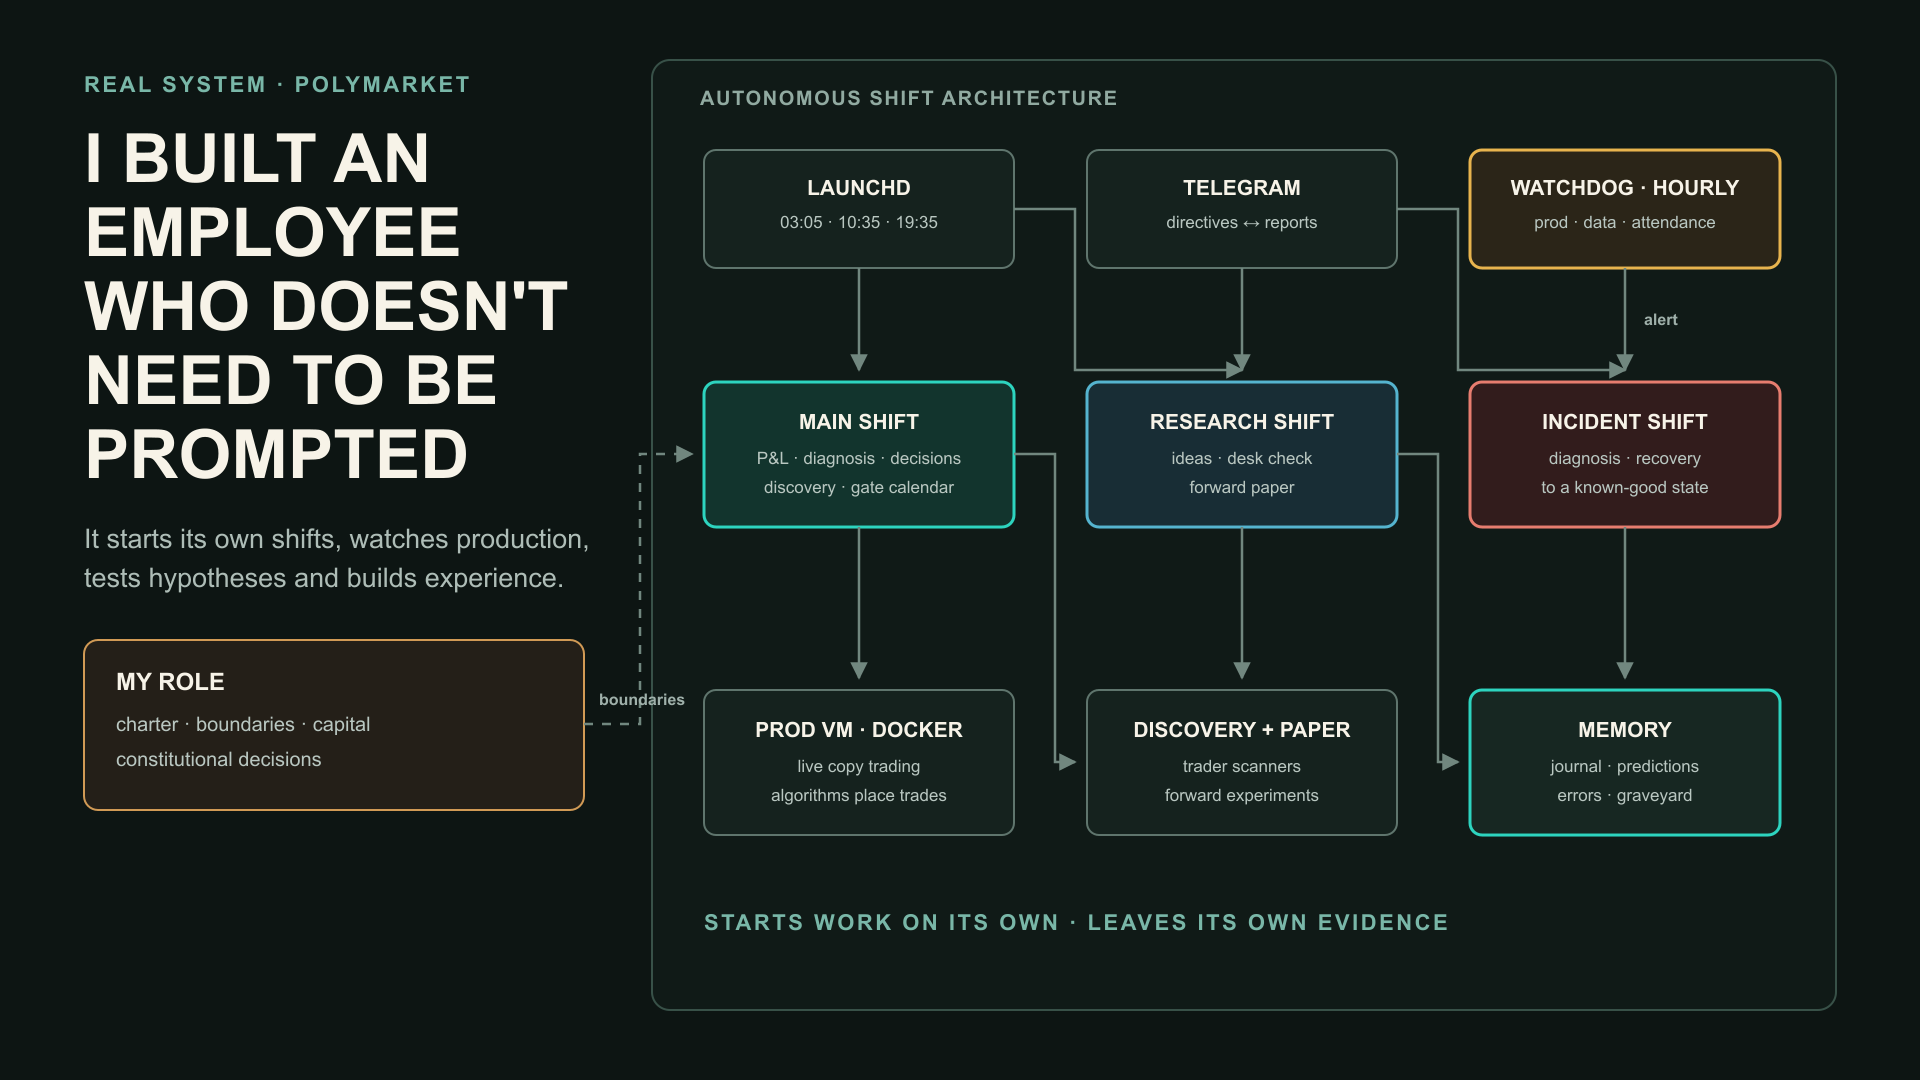
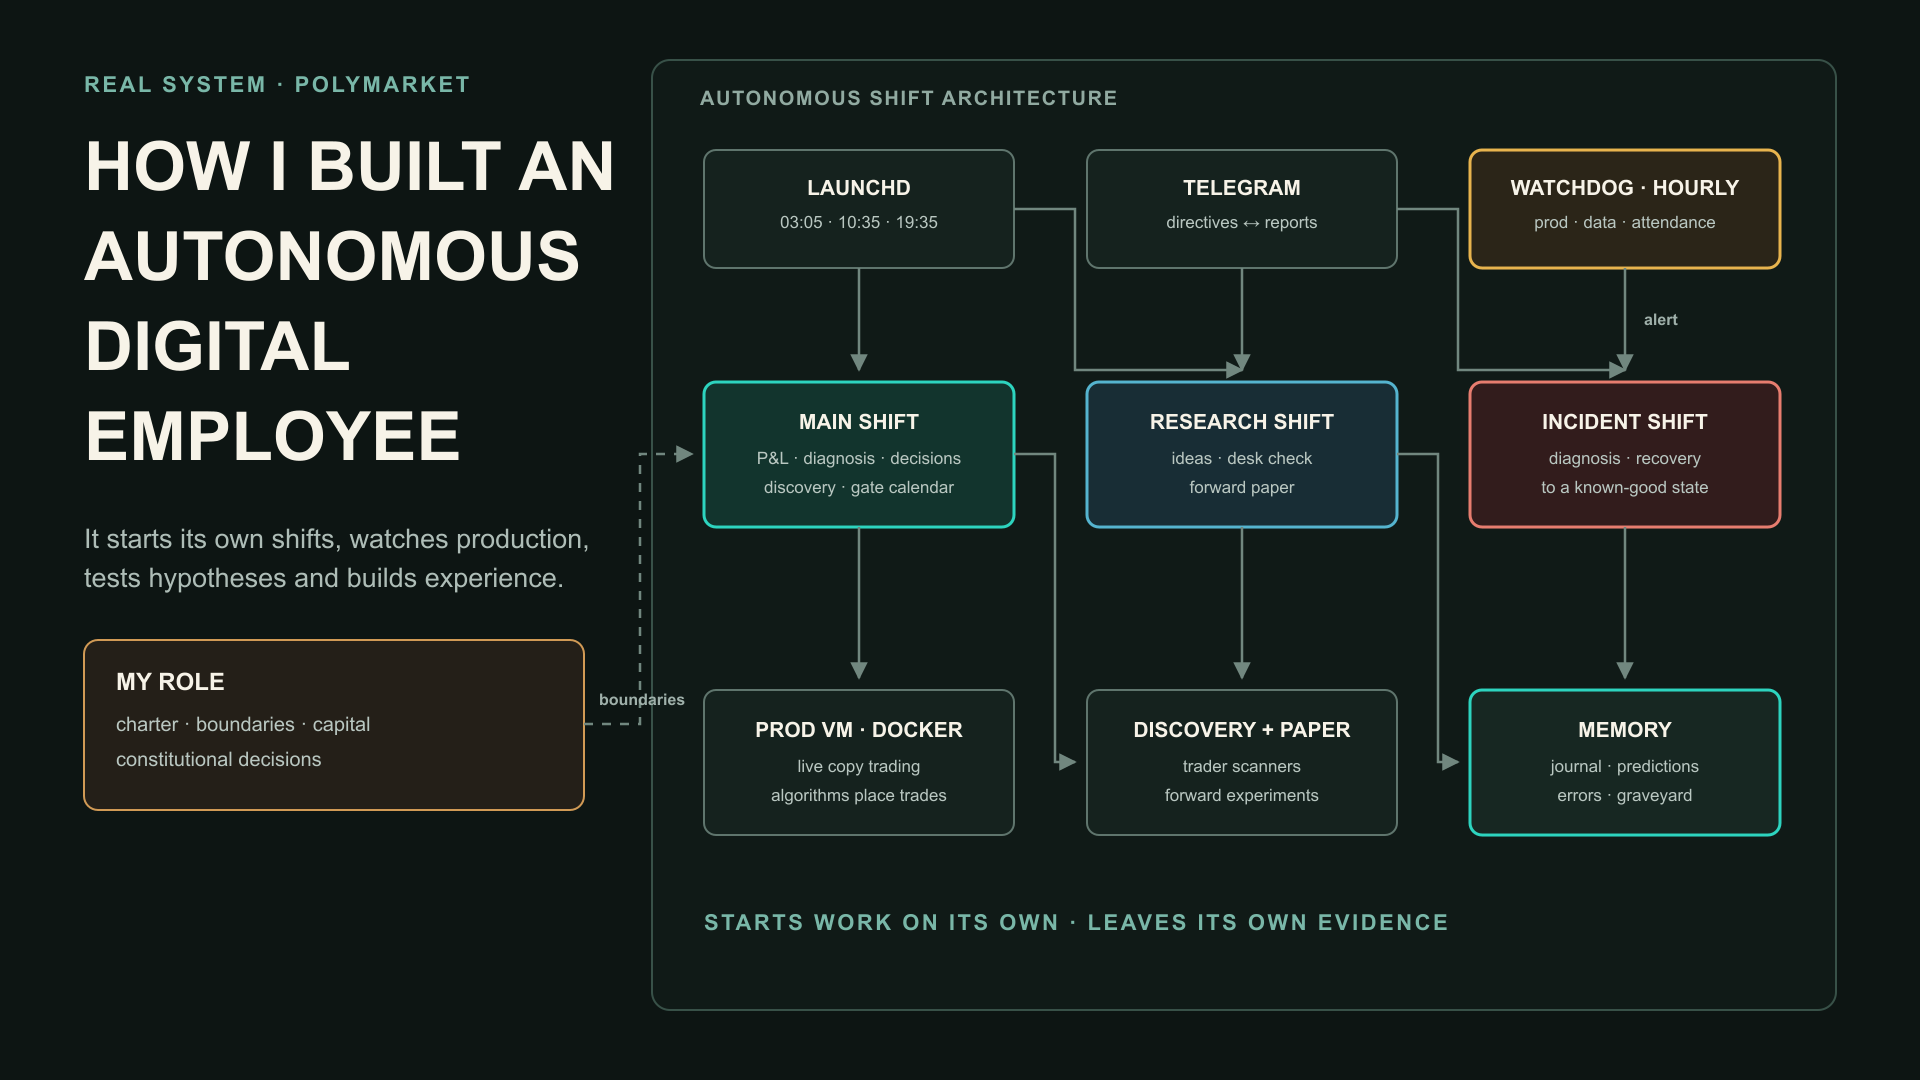
fix(content): rename digital employee article

Changed region(s): [[0.0312, 0.1222, 0.3438, 0.4583]]

diff --git a/scripts/check-bilingual-site.py b/scripts/check-bilingual-site.py
@@ -36,6 +36,10 @@ MERMAID_HEADINGS = {
         "3 · LEARN",
     ),
 }
+EXPECTED_ARTICLE_TITLES = {
+    "articles/autonomous-digital-employee/": "Как я создал автономного цифрового сотрудника",
+    "en/articles/autonomous-digital-employee/": "How I Built an Autonomous Digital Employee",
+}
 CYRILLIC = re.compile(r"[А-Яа-яЁё]")
 
 
@@ -145,6 +149,10 @@ def validate_page(
     english_text = " ".join(parser.text_parts).replace('Павел Волков', 'Pavel Volkov')
     if locale == "en-US" and CYRILLIC.search(english_text):
         errors.append(f"{label}: English HTML contains Cyrillic text")
+
+    expected_title = EXPECTED_ARTICLE_TITLES.get(route)
+    if expected_title and expected_title not in parser.text_parts:
+        errors.append(f"{label}: expected article title is missing")
 
     if route.endswith("en/articles/autonomous-digital-employee/"):
         expected_prefix = f"{base_path}en/articles/autonomous-digital-employee/"

diff --git a/content/en/articles/autonomous-digital-employee/index.md b/content/en/articles/autonomous-digital-employee/index.md
@@ -1,5 +1,5 @@
 ---
-title: "I Built an Employee I Don't Need to Keep Nudging"
+title: "How I Built an Autonomous Digital Employee"
 translationKey: "autonomous-digital-employee"
 date: 2026-07-21
 description: "How my Polymarket trading infrastructure became a proving ground for an autonomous digital employee with a charter, shifts, memory, and SRE on-call duty."

diff --git a/content/ru/articles/autonomous-digital-employee/index.md b/content/ru/articles/autonomous-digital-employee/index.md
@@ -1,5 +1,5 @@
 ---
-title: "Я собрал сотрудника, которого не нужно дёргать"
+title: "Как я создал автономного цифрового сотрудника"
 date: 2026-07-21
 description: "Как торговая инфраструктура Polymarket стала полигоном для автономного цифрового сотрудника с уставом, сменами, памятью и SRE-дежурством."
 summary: "Практический разбор автономного цифрового сотрудника: расписание, полномочия, память, инженерная интуиция, исследовательский конвейер и границы риска."